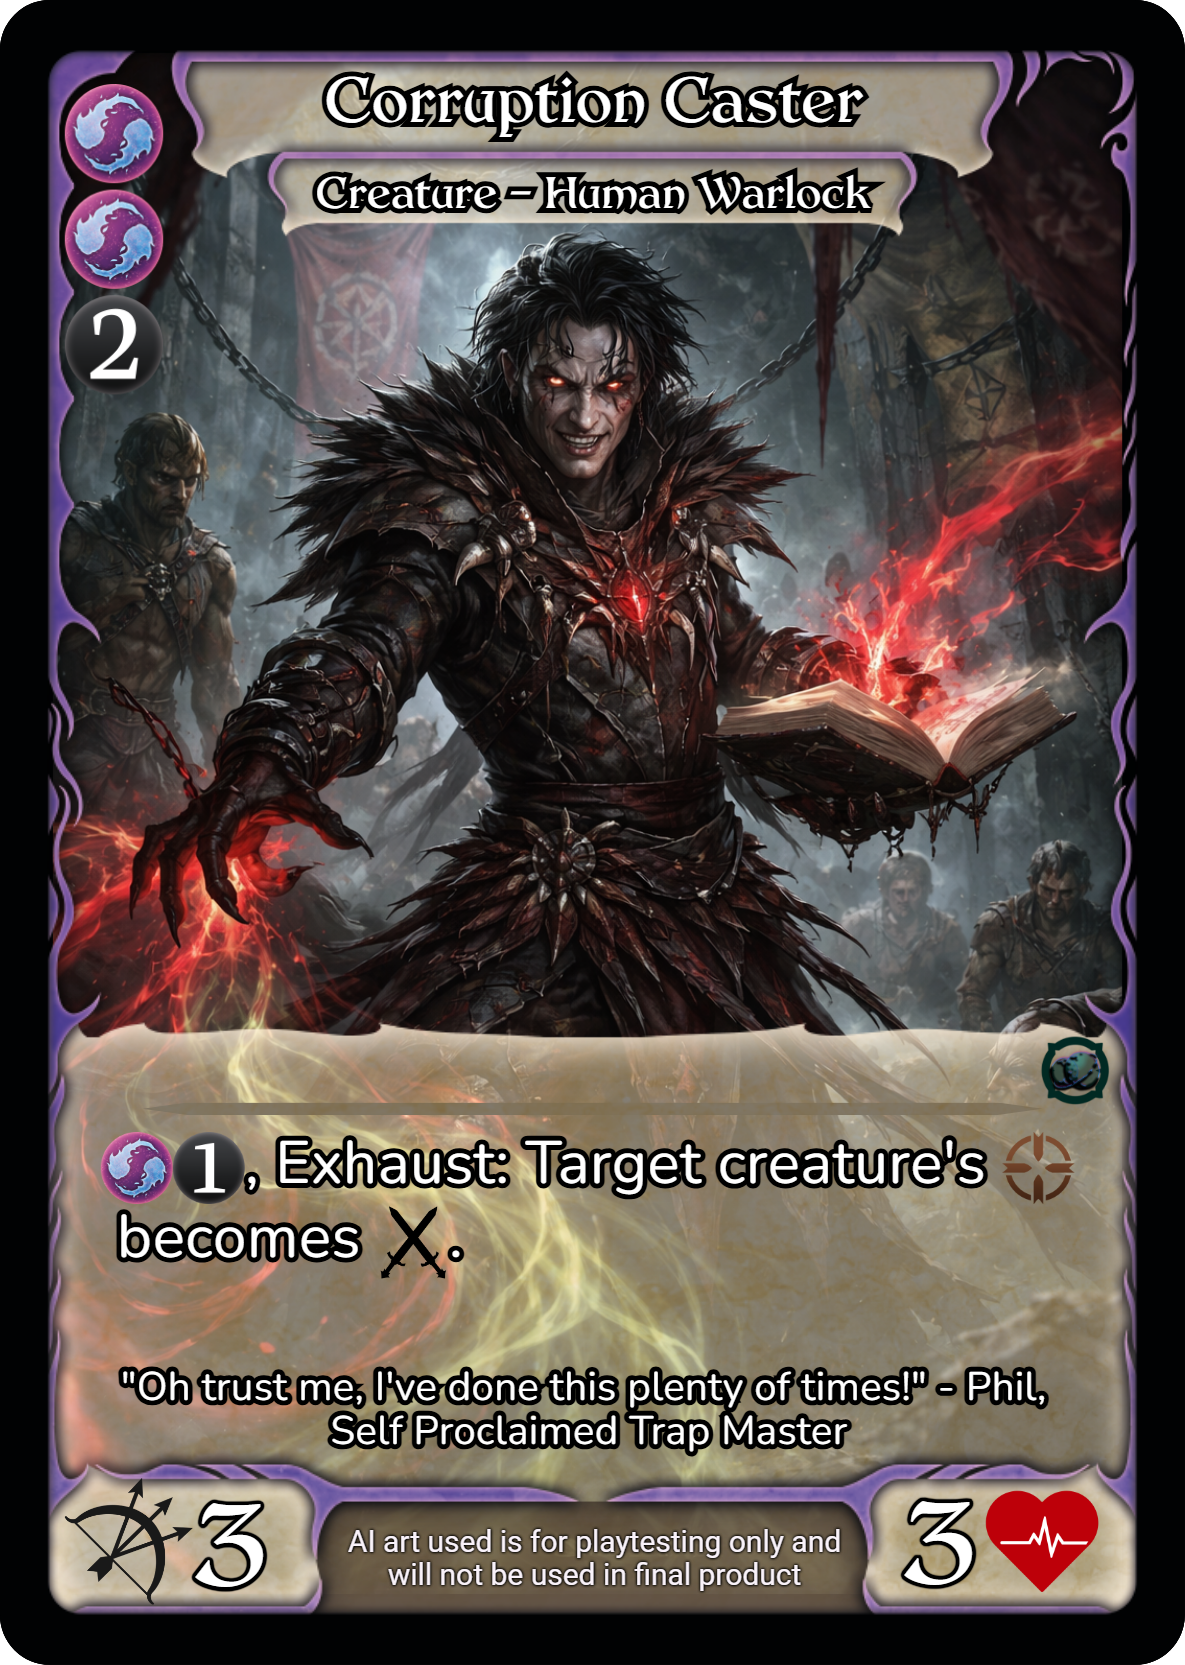
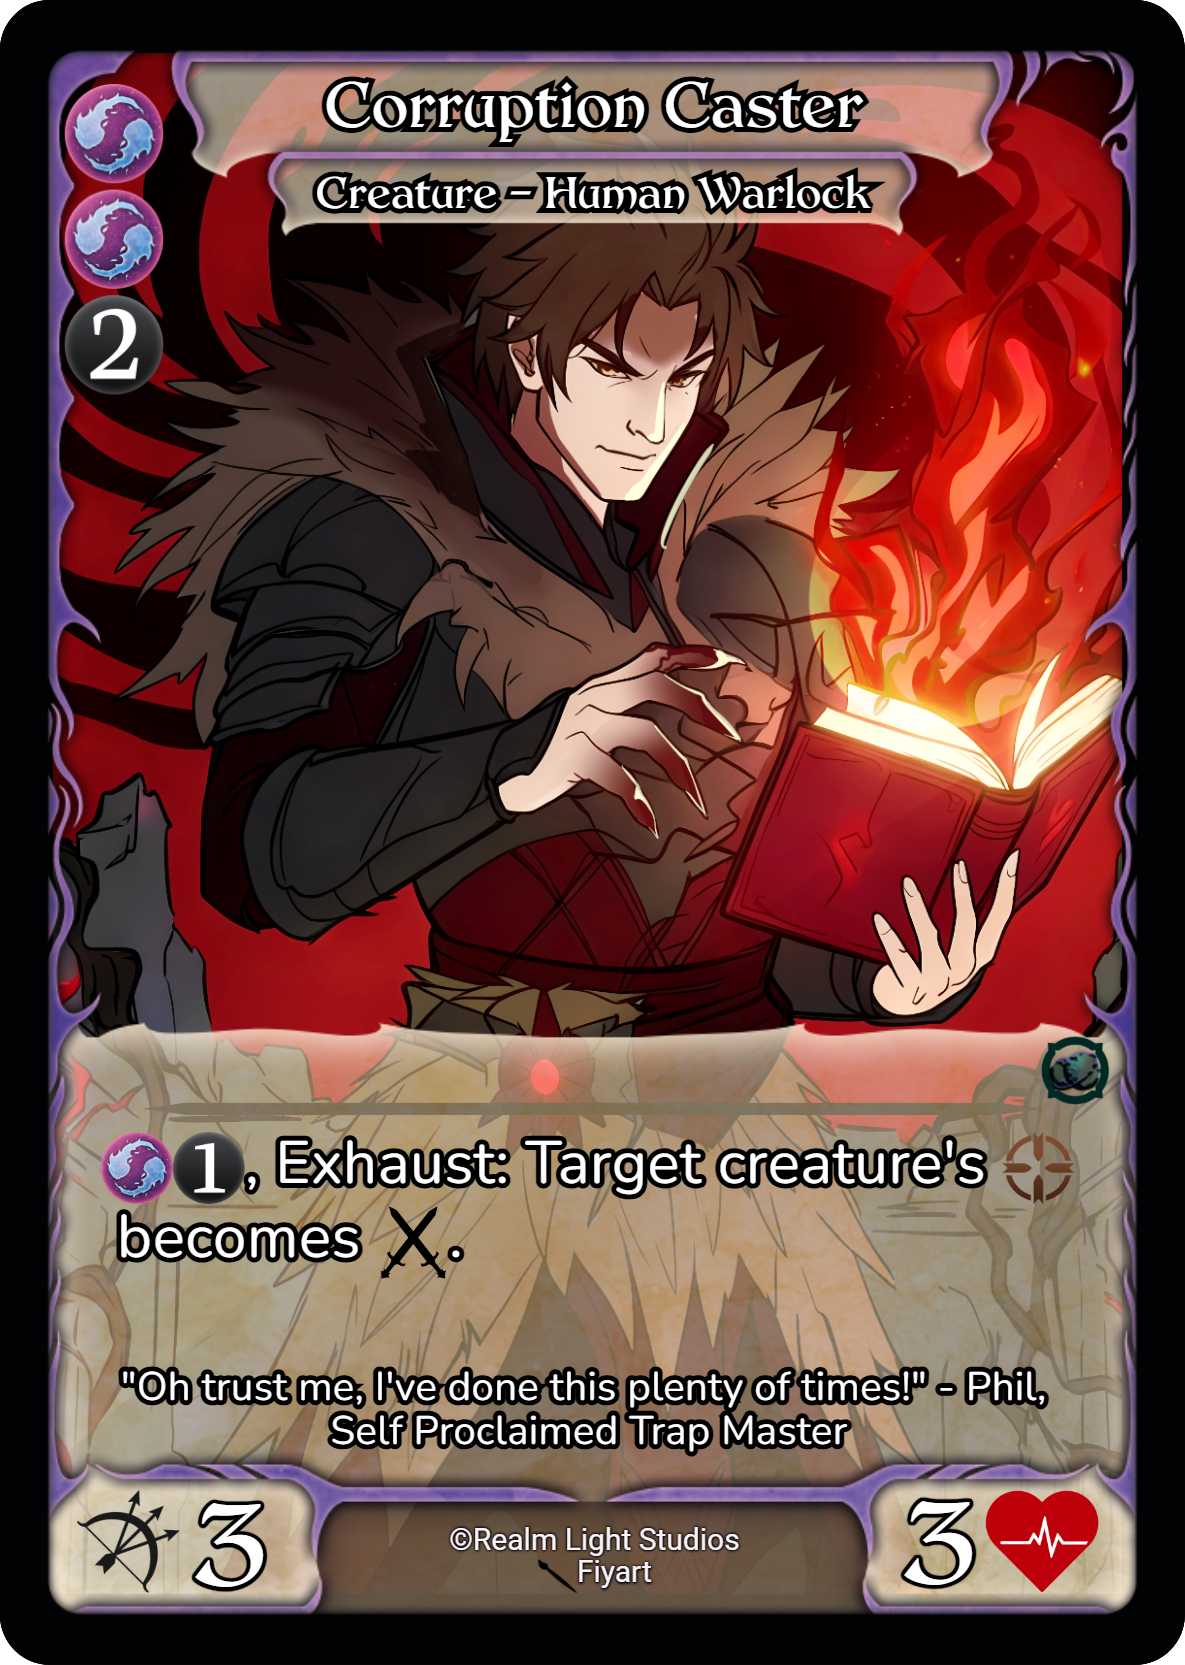
Update card art and replace Goblin Invention with Runespark Explosive
- Refresh art for 15 cards in Assets/Cards
- Card #76 is now Runespark Explosive (Prepared) in place of Goblin Invention
- Aetherwyn "Skarrfall Gorge Ambusher" is now .jpg; "Hao Qui" is now .png
- Repoint the card gallery and lore image references at the new filenames

diff --git a/card-gallery/index.html b/card-gallery/index.html
@@ -767,7 +767,7 @@
             { number:73,  name:"Force of Aggression",           file:"Force_of_Aggression.png",         type:"Creature",  subtype:"Elemental",              rarity:"Ascendant Rare",    color:"P", cost:7, power:6, health:6, range:1 },
             { number:74,  name:"Gather the Family",             file:"Gather_the_Family.png",           type:"Terrain",   subtype:"Field",                  rarity:"Uncommon",    color:"P", cost:5 },
             { number:75,  name:"Goading Orc",                   file:"Goading_Orc.png",                 type:"Creature",  subtype:"Orc",                    rarity:"Uncommon",    color:"P", cost:3, power:5, health:2, range:1 },
-            { number:76,  name:"Goblin Invention",              file:"Goblin_Invention.png",            type:"Spell",     subtype:"Reaction",               rarity:"Common",    color:"P", cost:2 },
+            { number:76,  name:"Runspark Explosive",              file:"Runespark_Explosive.png",            type:"Spell",     subtype:"Prepared",               rarity:"Common",    color:"P", cost:2 },
             { number:77,  name:"Grimrok Warlord",               file:"Grimrok_Warlord.png",             type:"Creature",  subtype:"Goblin",                 rarity:"Fabled Rare",    color:"P", cost:4, power:4, health:3, range:1 },
             { number:78,  name:"Hao Qui, the Black Scar",       file:"Hao_Qui,_the_Black_Scar.png",     type:"Creature",  subtype:"Red Panda Ape",          rarity:"Ascendant Rare",    color:"P", cost:6, power:6, health:6, range:1 },
             { number:79,  name:"Heat Up",                       file:"Heat_Up.png",                     type:"Spell",     subtype:"Reaction",               rarity:"Common",    color:"P", cost:2 },

diff --git a/lore/index.html b/lore/index.html
@@ -666,7 +666,7 @@
           <p>When war erupted between the regions of Conglin Zhidi and Axiomara, both enlisted. Hao Qui became a force of nature on the battlefield, his fury carving a path through the disciplined Berserkers of Axiomara. Bei Pan, meanwhile, built a network of spies and informants, guiding Hao Qui's campaigns with strategy and precision. Together, they rose through the ranks, their names spoken with awe across the jungle.</p>
           <div class="realm-visual">
             <div class="realm-img-slot" data-placeholder="Image 1" style="aspect-ratio: 2/3;">
-            <img src="../Assets/The Untamed Lands/Hao Qui.jpeg" alt="The Untamed Lands — Image 1">
+            <img src="../Assets/The Untamed Lands/Hao Qui.png" alt="The Untamed Lands — Image 1">
             <p class="image-caption">Hao Qui - AI art is temporary only and will be replaced</p>
           </div>
           </div> 
@@ -799,7 +799,7 @@
           <p>His ravenous desire for power never faded. In time, he made a terrible sacrifice: using his stolen power to drain the life from his own children. To keep suspicion from the people, he staged his own death and allowed it to appear that his last surviving son continued the royal line.</p>
           <div class="realm-visual">
             <div class="realm-img-slot" data-placeholder="Image 4" style="aspect-ratio: 2/3;">
-            <img src="../Assets/Aetherwyn/Skarrfall Gorge Ambusher.png" alt="Aetherwyn — Image 4">
+            <img src="../Assets/Aetherwyn/Skarrfall Gorge Ambusher.jpg" alt="Aetherwyn — Image 4">
             <p class="image-caption">Skarrfall Goblin - AI art is temporary only and will be replaced</p>
           </div>
           </div>
